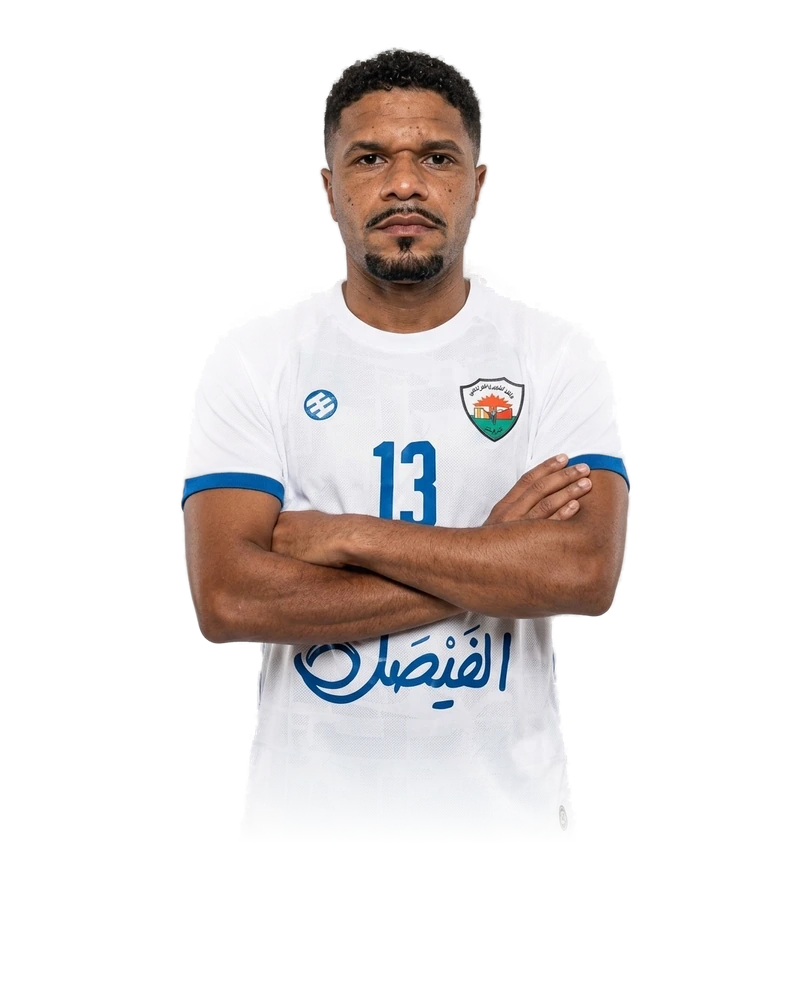
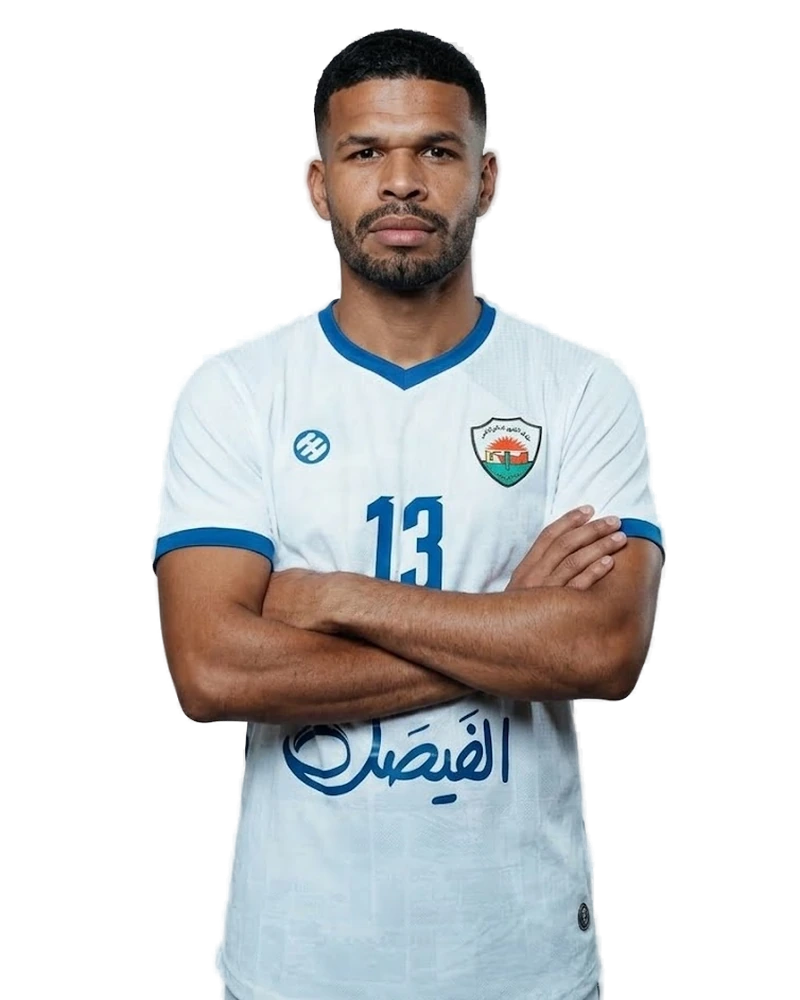
الجهراء: صورة ماركوس راموس (13) الصحيحة — بورتريه بطقم النادي من صورة منصور (الصورة السابقة للاعب آخر) — صور ?v=28، PLAYER_PHOTOS_VER 30، fantasy 251، sw -171

diff --git a/fantasy/index.html b/fantasy/index.html
@@ -12,8 +12,8 @@
 <link rel="preconnect" href="https://fonts.googleapis.com">
 <link rel="preconnect" href="https://fonts.gstatic.com" crossorigin>
 <link href="https://fonts.googleapis.com/css2?family=Vazirmatn:wght@300;400;500;600;700;800&display=swap" rel="stylesheet">
-<link rel="stylesheet" href="css/style.css?v=250">
-<link rel="stylesheet" href="css/motion.css?v=250">
+<link rel="stylesheet" href="css/style.css?v=251">
+<link rel="stylesheet" href="css/motion.css?v=251">
 <script src="https://cdnjs.cloudflare.com/ajax/libs/firebase/10.12.2/firebase-app-compat.min.js"></script>
 <script src="https://cdnjs.cloudflare.com/ajax/libs/firebase/10.12.2/firebase-auth-compat.min.js"></script>
 <script src="https://cdnjs.cloudflare.com/ajax/libs/firebase/10.12.2/firebase-firestore-compat.min.js"></script>
@@ -21,13 +21,13 @@
 </head>
 <body>
   <div id="splash">
-    <div class="splash-card"><img class="splash-logo" src="assets/logo-light.png?v=250" alt="Kuwait Fantasy League"></div>
+    <div class="splash-card"><img class="splash-logo" src="assets/logo-light.png?v=251" alt="Kuwait Fantasy League"></div>
   </div>
 
   <header id="topbar" style="display:none">
     <div id="brand" onclick="APP.go('dashboard')">
-      <img class="brand-lockup lk-dark" src="assets/logo-dark.png?v=250" alt="Kuwait Fantasy League">
-      <img class="brand-lockup lk-light" src="assets/logo-light.png?v=250" alt="Kuwait Fantasy League">
+      <img class="brand-lockup lk-dark" src="assets/logo-dark.png?v=251" alt="Kuwait Fantasy League">
+      <img class="brand-lockup lk-light" src="assets/logo-light.png?v=251" alt="Kuwait Fantasy League">
     </div>
     <a id="toSite" href="/" title="العودة للموقع">
       <svg viewBox="0 0 24 24" width="16" height="16" fill="none" stroke="currentColor" stroke-width="2.2" stroke-linecap="round" stroke-linejoin="round" aria-hidden="true"><path d="M9 6l6 6-6 6"/></svg>
@@ -42,29 +42,29 @@
   <nav id="bottomnav"></nav>
   <div id="toasts"></div>
 
-  <script src="js/cloud.js?v=250"></script>
-  <script src="js/data.js?v=250"></script>
-  <script src="js/engine.js?v=250"></script>
-  <script src="js/ui.js?v=250"></script>
-  <script src="js/photos.js?v=250"></script>
-  <script src="js/kits.js?v=250"></script>
-  <script src="js/kits-number.js?v=250"></script>
-  <script src="js/moderation.js?v=250"></script>
-  <script src="js/views.js?v=250"></script>
-  <script src="js/picker.js?v=250"></script>
-  <script src="js/extras.js?v=250"></script>
-  <script src="js/push.js?v=250"></script>
-  <script src="js/adminauth.js?v=250"></script>
-  <script src="js/admin.js?v=250"></script>
-  <script src="js/guide.js?v=250"></script>
-  <script src="js/live-gw.js?v=250"></script>
-  <script src="js/points.js?v=250"></script>
-  <script src="js/mfsync.js?v=250"></script>
-  <script src="js/roster-sync.js?v=250"></script>
-  <script src="js/app.js?v=250"></script>
-  <script src="js/motion.js?v=250"></script>
-  <script src="js/i18n.js?v=250"></script>
-  <script src="js/i18n-more.js?v=250"></script>
-  <script src="js/gate.js?v=250"></script>
+  <script src="js/cloud.js?v=251"></script>
+  <script src="js/data.js?v=251"></script>
+  <script src="js/engine.js?v=251"></script>
+  <script src="js/ui.js?v=251"></script>
+  <script src="js/photos.js?v=251"></script>
+  <script src="js/kits.js?v=251"></script>
+  <script src="js/kits-number.js?v=251"></script>
+  <script src="js/moderation.js?v=251"></script>
+  <script src="js/views.js?v=251"></script>
+  <script src="js/picker.js?v=251"></script>
+  <script src="js/extras.js?v=251"></script>
+  <script src="js/push.js?v=251"></script>
+  <script src="js/adminauth.js?v=251"></script>
+  <script src="js/admin.js?v=251"></script>
+  <script src="js/guide.js?v=251"></script>
+  <script src="js/live-gw.js?v=251"></script>
+  <script src="js/points.js?v=251"></script>
+  <script src="js/mfsync.js?v=251"></script>
+  <script src="js/roster-sync.js?v=251"></script>
+  <script src="js/app.js?v=251"></script>
+  <script src="js/motion.js?v=251"></script>
+  <script src="js/i18n.js?v=251"></script>
+  <script src="js/i18n-more.js?v=251"></script>
+  <script src="js/gate.js?v=251"></script>
 </body>
 </html>

diff --git a/fantasy/js/photos.js b/fantasy/js/photos.js
@@ -4,7 +4,7 @@
 'use strict';
 
 /* رقم نسخة الصور: ارفعه عند إعادة توليد أي قصّة حتى لا يبقى المتصفح على النسخة القديمة */
-const PLAYER_PHOTOS_VER = '29';
+const PLAYER_PHOTOS_VER = '30';
 
 const PLAYER_PHOTOS = {
   // الصليبخات (17)
